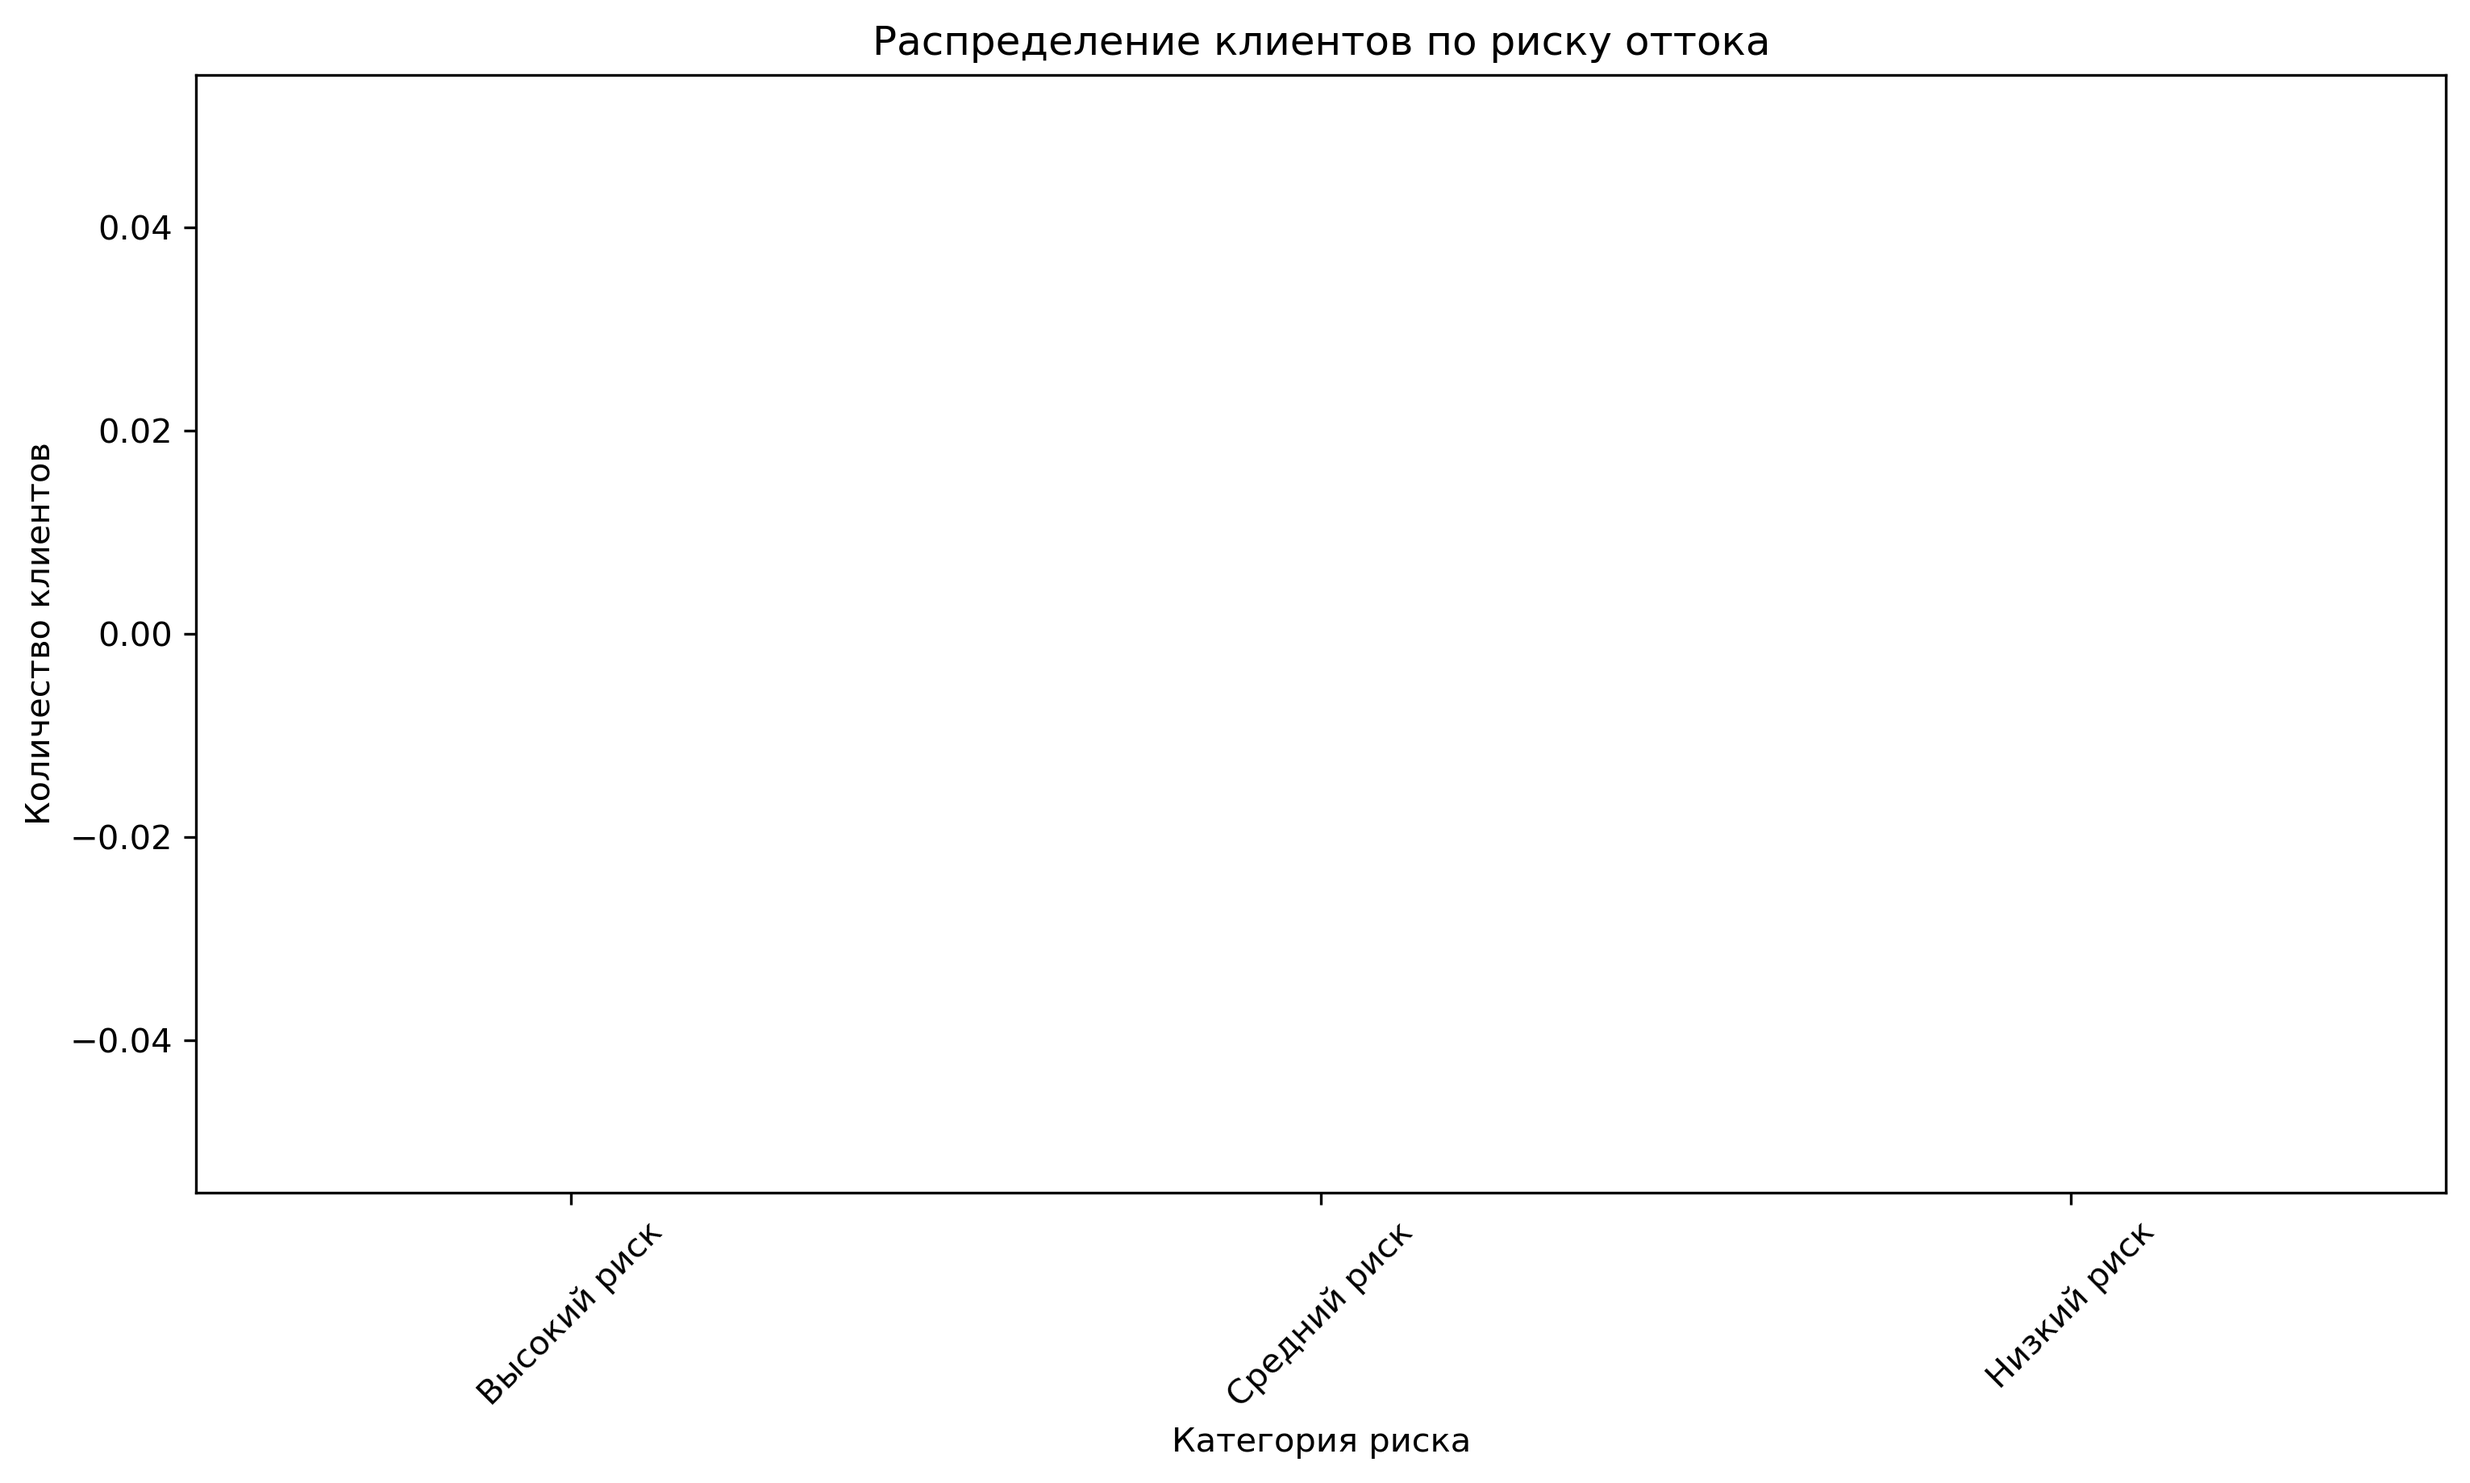
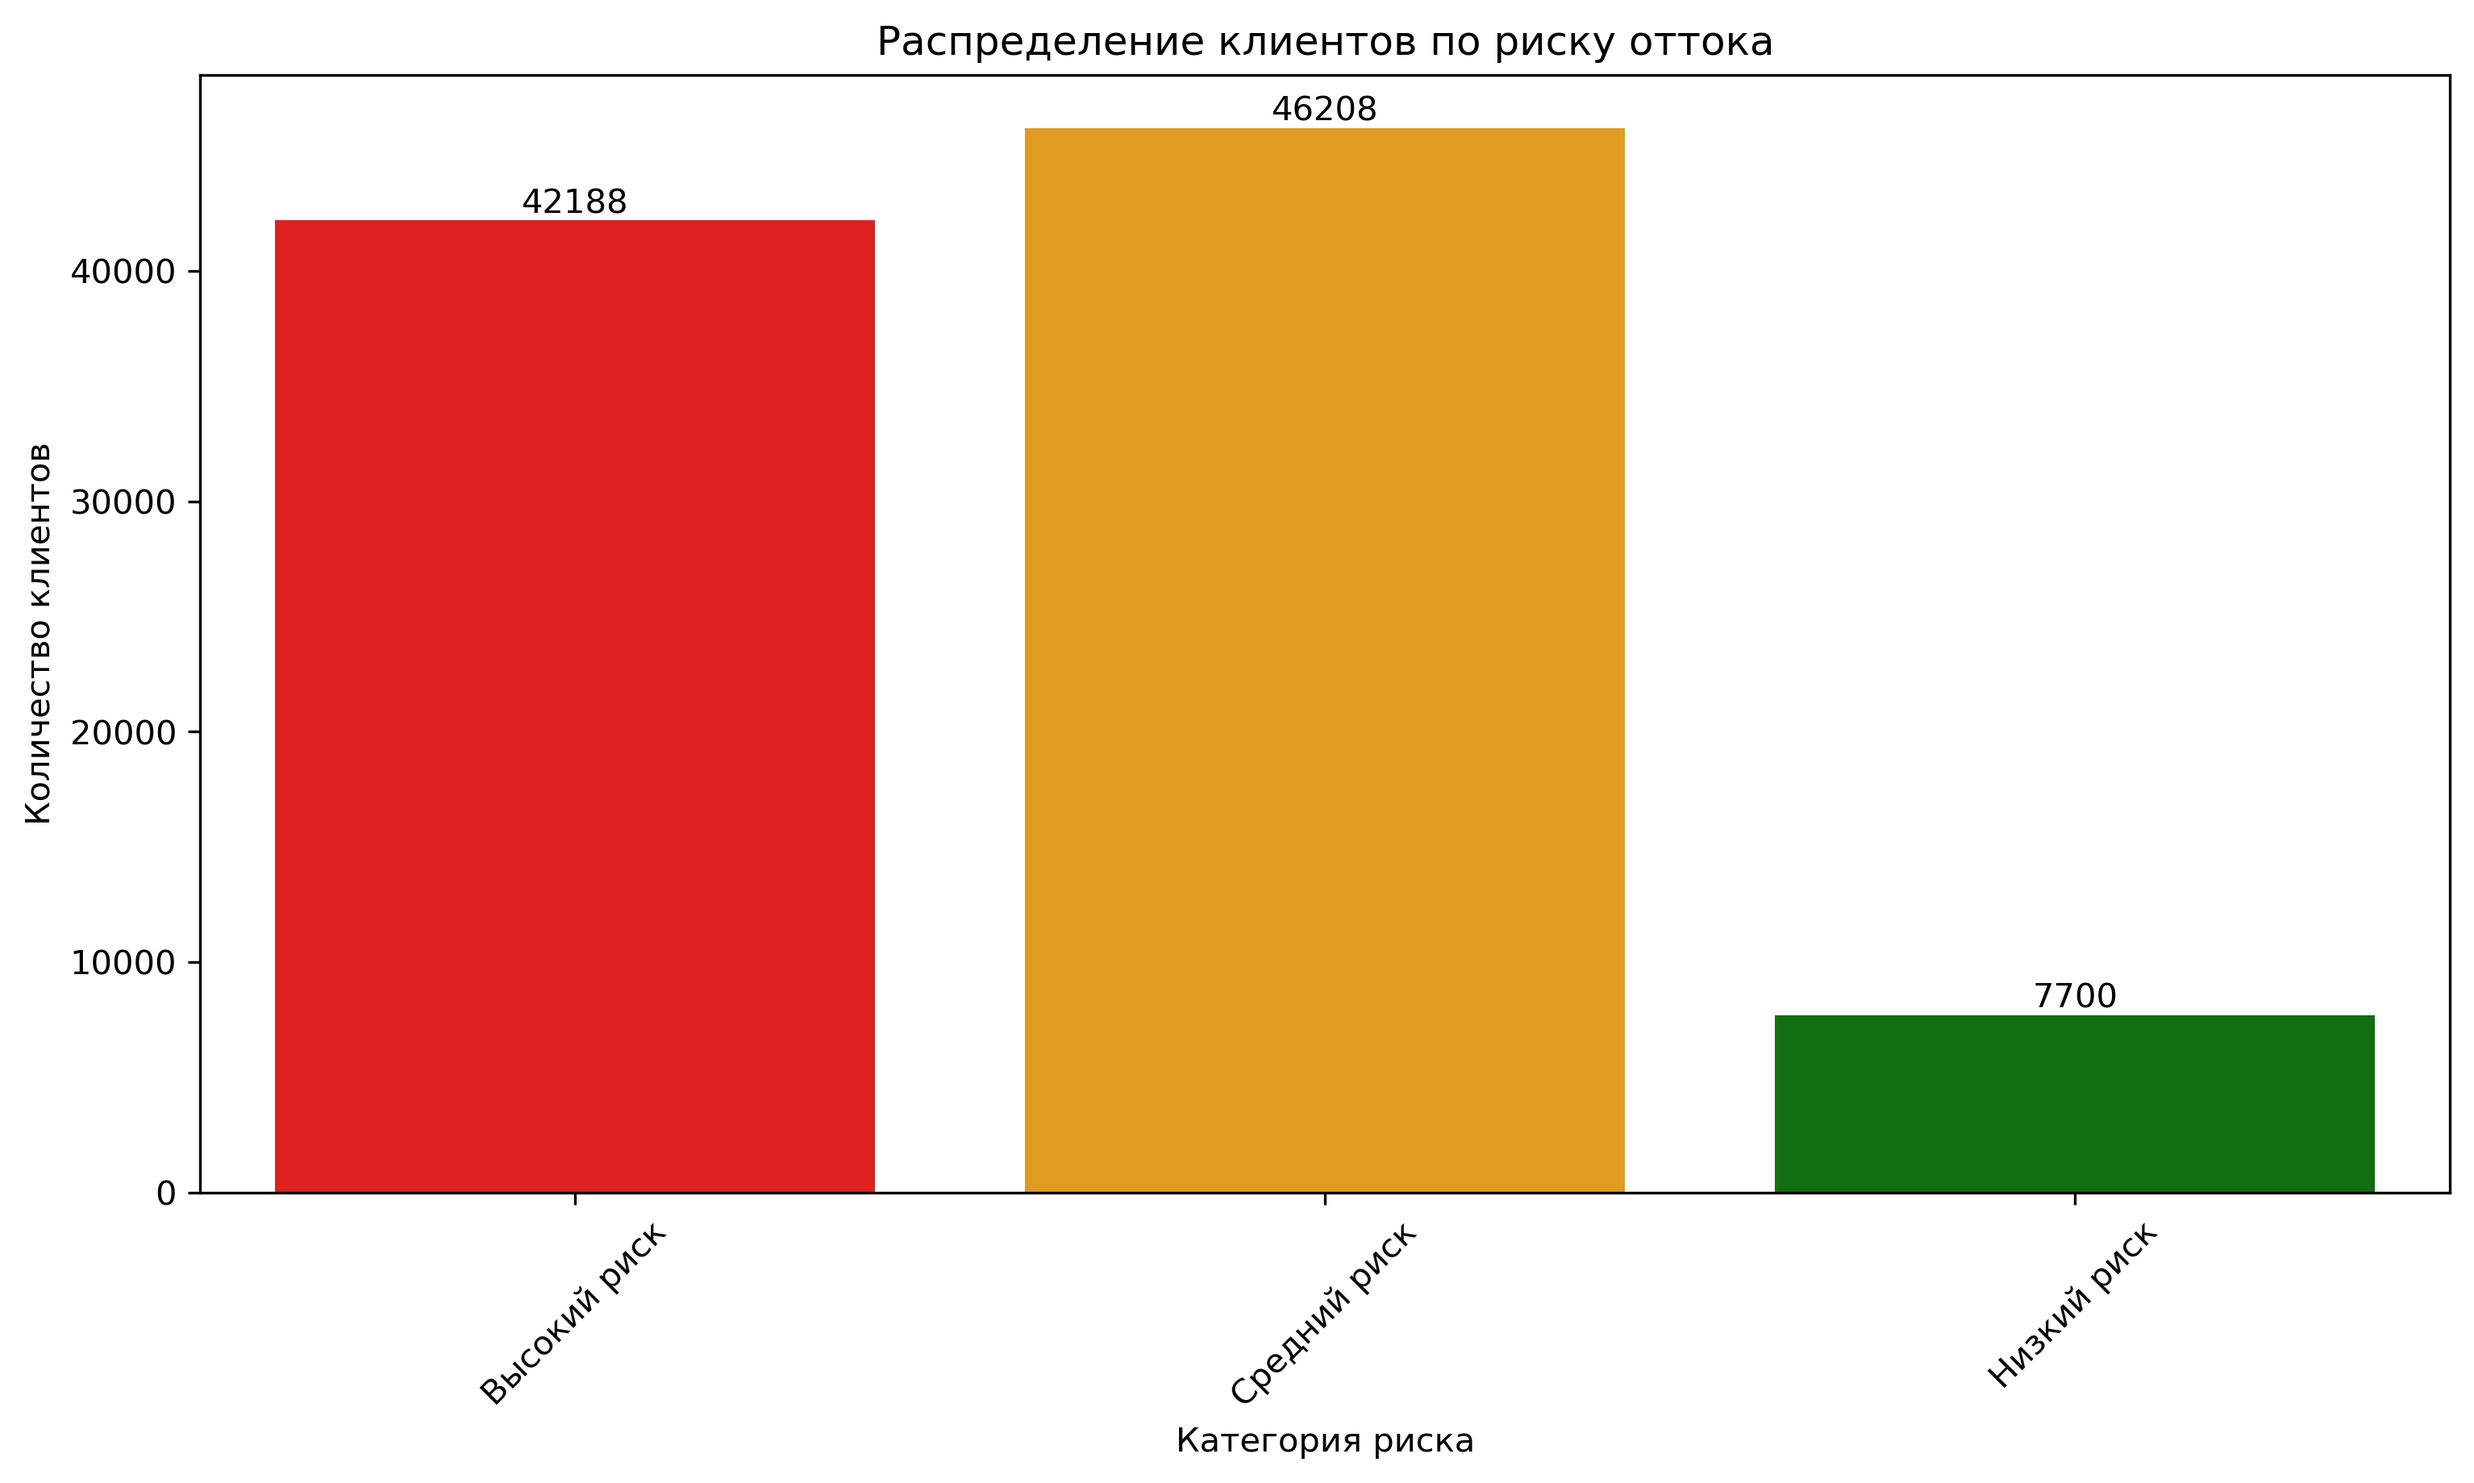
fix_graph

diff --git a/services/rfm.py b/services/rfm.py
@@ -129,35 +129,44 @@ def save_churn_plot(rfm_data, filename='plots/churn_risk_distribution.png'):
     try:
         # Создаем директорию если нужно
         os.makedirs(os.path.dirname(filename), exist_ok=True)
-
+        
         plt.figure(figsize=(12, 6))
+        
+        # Используем фактические метки из данных
+        plot_order = ['3_high', '2_medium', '1_low']
+        palette = {'3_high': 'red', '2_medium': 'orange', '1_low': 'green'}
+        
         ax = sns.countplot(
-            x='Churn_Risk',
+            x='Churn_Risk', 
             data=rfm_data,
-            order=['Высокий риск', 'Средний риск', 'Низкий риск'],
-            palette={'Высокий риск': 'red',
-                     'Средний риск': 'orange', 'Низкий риск': 'green'}
+            order=plot_order,
+            palette=palette
         )
-
+        
         # Добавляем аннотации
         for p in ax.patches:
-            ax.annotate(f'{p.get_height():.0f}',
-                        (p.get_x() + p.get_width() / 2., p.get_height()),
-                        ha='center',
-                        va='center',
-                        xytext=(0, 5),
+            ax.annotate(f'{p.get_height():.0f}', 
+                        (p.get_x() + p.get_width() / 2., p.get_height()), 
+                        ha='center', 
+                        va='center', 
+                        xytext=(0, 5), 
                         textcoords='offset points')
 
+        # Русские подписи для визуализации
         plt.title('Распределение клиентов по риску оттока')
         plt.xlabel('Категория риска')
         plt.ylabel('Количество клиентов')
-        plt.xticks(rotation=45)
-
+        plt.xticks(
+            ticks=range(len(plot_order)), 
+            labels=['Высокий риск', 'Средний риск', 'Низкий риск'],
+            rotation=45
+        )
+        
         # Сохраняем и закрываем график
         plt.savefig(filename, dpi=300, bbox_inches='tight')
         plt.close()
         print(f'График сохранен в {filename}')
-
+        
     except Exception as e:
         print(f'Ошибка при сохранении графика: {str(e)}')
 
